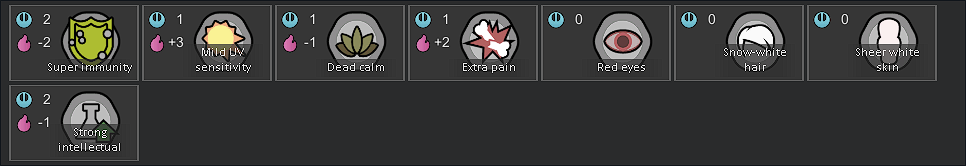
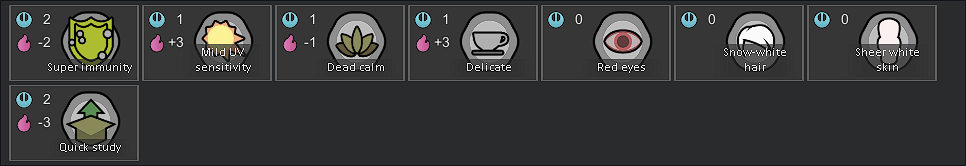
chaned a few genes based on helpful feedback

Changed region(s): [[0.0311, 0.6024, 0.1242, 0.9337], [0.4348, 0.1205, 0.559, 0.4518]]

diff --git a/README.md b/README.md
@@ -19,7 +19,7 @@ Astros are resistant to toxins and radiation, and they need less nutrition than 
 ![M-Gen-pawn](https://user-images.githubusercontent.com/1922739/208227154-87ed2e3a-57ec-4899-b6dd-1dc15ff553d8.png)
 The M-Gens (short for many-generation spacers) have lived in orbital space stations for over a hundred generations. In that time, they've evolved distinct traits by natural selection in such an artificial environment.
 
-M-Gens very rarely get sick and quickly build immunity to disease. They tend to have calm dispositions and keen minds compatible with living one's entire life in a small crowded space. However, M-Gens suffer from a form of albinism that makes them sensitive to natural sunlight and their pain tolerance is distinctly lower than the average human.
+M-Gens very rarely get sick and quickly build immunity to disease. They tend to have calm dispositions and keen minds compatible with living one's entire life in a small crowded space. However, M-Gens suffer from a form of albinism that makes them sensitive to natural sunlight and reduced bone density.
 
 #### Syren
 ![Syren-pawn](https://user-images.githubusercontent.com/1922739/208227158-29ea5e01-2d2b-43cb-b03c-f96fd061241b.png)
